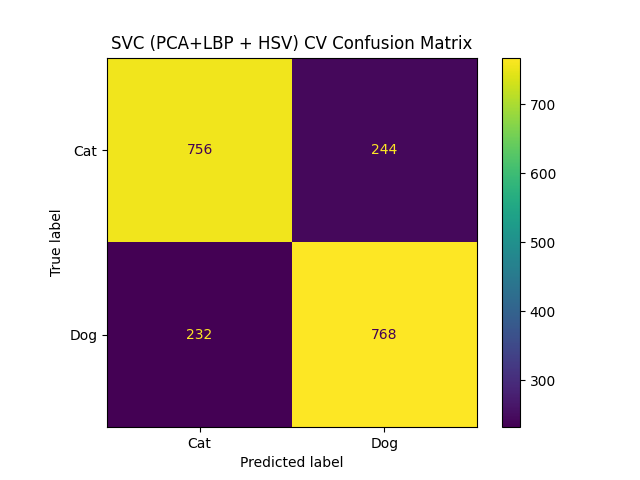
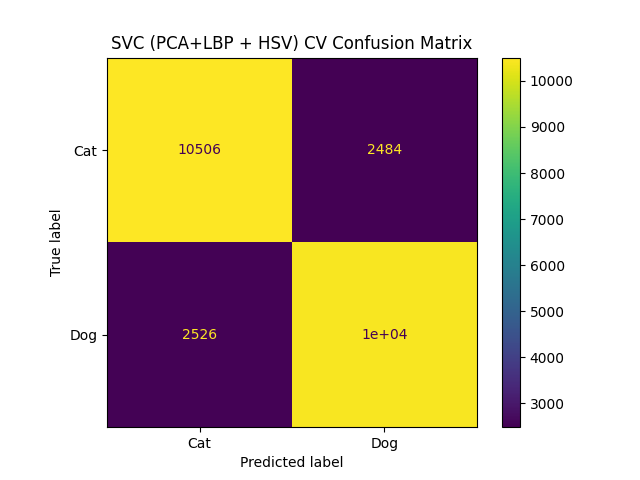
final results

diff --git a/DogVsCat.py b/DogVsCat.py
@@ -45,12 +45,13 @@ def load_images(cat_dir, dog_dir, image_size=(128,128)):
     cv2.destroyAllWindows()
     return np.array(images), np.array(imagesGray), np.array(labels)
 
-'''
+
 cat_dir = os.path.join("all_cats_merged")
 dog_dir = os.path.join("all_dogs_merged")
 '''
 cat_dir = os.path.join("CatImages", "cats")
 dog_dir = os.path.join("DogImages", "dogs")
+'''
 
 images, imagesGray, labels = load_images(cat_dir,dog_dir)
 print(f"Loaded {len(images)} images.")
@@ -176,12 +177,12 @@ for k in k_values:
     pipe_mix.set_params(model__n_neighbors=k)
     pipe_mix_pca.set_params(model__n_neighbors=k)
 
-    scores_h = cross_val_score(pipe_hog, hogfeatures, labels, cv=cv_strategy, scoring='accuracy')
-    scores_l = cross_val_score(pipe_lbp, lpb_features, labels, cv=cv_strategy, scoring='accuracy')
-    scores_hsv = cross_val_score(pipe_hsv, colorFeatures, labels, cv=cv_strategy, scoring='accuracy')
-    scores_ph = cross_val_score(pipe_pca_hog, hogfeatures, labels, cv=cv_strategy, scoring='accuracy')
-    scores_m = cross_val_score(pipe_mix, mergeFeatures, labels, cv=cv_strategy, scoring='accuracy')
-    scores_pm = cross_val_score(pipe_mix_pca, mergeFeatures, labels, cv=cv_strategy, scoring='accuracy')
+    scores_h = cross_val_score(pipe_hog, hogfeatures, labels, cv=cv_strategy, scoring='accuracy', n_jobs=-1)
+    scores_l = cross_val_score(pipe_lbp, lpb_features, labels, cv=cv_strategy, scoring='accuracy', n_jobs=-1)
+    scores_hsv = cross_val_score(pipe_hsv, colorFeatures, labels, cv=cv_strategy, scoring='accuracy', n_jobs=-1)
+    scores_ph = cross_val_score(pipe_pca_hog, hogfeatures, labels, cv=cv_strategy, scoring='accuracy', n_jobs=-1)
+    scores_m = cross_val_score(pipe_mix, mergeFeatures, labels, cv=cv_strategy, scoring='accuracy', n_jobs=-1)
+    scores_pm = cross_val_score(pipe_mix_pca, mergeFeatures, labels, cv=cv_strategy, scoring='accuracy', n_jobs=-1)
 
     knnAccuracyH[k] = scores_h.mean()
     knnAccuracyL[k] = scores_l.mean()
@@ -213,22 +214,69 @@ plt.grid(True)
 plt.savefig("results/KNN_Accuracy_vs_k.png")
 plt.close()
 
-
 print("Starting SVC cross-validation:")
 
 svc_model = SVC(kernel='rbf', C=2, gamma='scale', probability=True)
-pipe_mix_pca.set_params(model=svc_model)
-pipe_mix.set_params(model=svc_model)
 
-#print("running SVC on HOG + LBP + HSV features")
-#scores_svc_mix = cross_val_score(pipe_mix, mergeFeatures, labels, cv=cv_strategy, scoring='accuracy')
-#print(f"SVC HOG + LBP + HSV Accuracy: {scores_svc_mix.mean():.4f}")
+pipe_hog.set_params(model=svc_model)
+pipe_lbp.set_params(model=svc_model)
+pipe_hsv.set_params(model=svc_model)
+pipe_pca_hog.set_params(model=svc_model)
+pipe_mix.set_params(model=svc_model)
+pipe_mix_pca.set_params(model=svc_model)
+
+print("Running CV for all SVC pipelines (for box plot)...")
+scores_svc_hog = cross_val_score(pipe_hog, hogfeatures, labels, cv=cv_strategy, scoring='accuracy', n_jobs=-1)
+scores_svc_lbp = cross_val_score(pipe_lbp, lpb_features, labels, cv=cv_strategy, scoring='accuracy', n_jobs=-1)
+scores_svc_hsv = cross_val_score(pipe_hsv, colorFeatures, labels, cv=cv_strategy, scoring='accuracy', n_jobs=-1)
+scores_svc_pca_hog = cross_val_score(pipe_pca_hog, hogfeatures, labels, cv=cv_strategy, scoring='accuracy', n_jobs=-1)
+scores_svc_mix = cross_val_score(pipe_mix, mergeFeatures, labels, cv=cv_strategy, scoring='accuracy', n_jobs=-1)
+scores_svc_mix_pca = cross_val_score(pipe_mix_pca, mergeFeatures, labels, cv=cv_strategy, scoring='accuracy', n_jobs=-1)
+
+# Print the mean and standard deviation for comparison
+print(f"SVC HOG Accuracy: {scores_svc_hog.mean():.4f} +/- {scores_svc_hog.std():.4f}")
+print(f"SVC LBP Accuracy: {scores_svc_lbp.mean():.4f} +/- {scores_svc_lbp.std():.4f}")
+print(f"SVC HSV Accuracy: {scores_svc_hsv.mean():.4f} +/- {scores_svc_hsv.std():.4f}")
+print(f"SVC PCA HOG Accuracy: {scores_svc_pca_hog.mean():.4f} +/- {scores_svc_pca_hog.std():.4f}")
+print(f"SVC HOG + LBP + HSV Accuracy: {scores_svc_mix.mean():.4f} +/- {scores_svc_mix.std():.4f}")
+print(f"SVC PCA HOG + LBP + HSV Accuracy: {scores_svc_mix_pca.mean():.4f} +/- {scores_svc_mix_pca.std():.4f}")
+
+# --- NEW: Generate Box Plot ---
+print("Generating SVC comparison box plot...")
+data_to_plot = [
+    scores_svc_hog,
+    scores_svc_lbp,
+    scores_svc_hsv,
+    scores_svc_pca_hog,
+    scores_svc_mix,
+    scores_svc_mix_pca
+]
+labels_to_plot = [
+    'SVC HOG',
+    'SVC LBP',
+    'SVC HSV',
+    'SVC PCA HOG',
+    'SVC Mixed',
+    'SVC Mixed (PCA)'
+]
+
+plt.figure(figsize=(12, 8))
+plt.boxplot(data_to_plot, labels=labels_to_plot)
+plt.title('SVC Model Performance Comparison (5-Fold CV)')
+plt.ylabel('Accuracy')
+plt.xticks(rotation=30, ha='right') # Rotate labels to prevent overlap
+plt.grid(True, axis='y', linestyle='--', alpha=0.7)
+plt.tight_layout() # Adjust plot to fit labels
+plt.savefig("results/SVC_Model_Comparison_Boxplot.png")
+plt.close()
+
+
 
 print("running SVC on PCA HOG + LBP + HSV features")
-scores_svc_mix_pca = cross_val_score(pipe_mix_pca, mergeFeatures, labels, cv=cv_strategy, scoring='accuracy')
+scores_svc_mix_pca = cross_val_score(pipe_mix_pca, mergeFeatures, labels, cv=cv_strategy, scoring='accuracy', n_jobs=-1)
 print(f"SVC PCA HOG + LBP + HSV Accuracy: {scores_svc_mix_pca.mean():.4f}")
-y_pred_cv = cross_val_predict(pipe_mix_pca, mergeFeatures, labels, cv=cv_strategy)
-y_probs_cv = cross_val_predict(pipe_mix_pca, mergeFeatures, labels, cv=cv_strategy, method='predict_proba')
+y_pred_cv = cross_val_predict(pipe_mix_pca, mergeFeatures, labels, cv=cv_strategy, n_jobs=-1)
+y_probs_cv = cross_val_predict(pipe_mix_pca, mergeFeatures, labels, cv=cv_strategy, method='predict_proba', n_jobs=-1)
 # Get the probabilities for the "positive" class (Dog, label 1)
 y_probs_cv_dog = y_probs_cv[:, 1]
 
@@ -248,7 +296,7 @@ plt.savefig("results/SVC_PCA_LBP_HSV_Confusion_Matrix.png")
 plt.close()
 
 
-# 3. ROC Curve and AUC Score
+# ROC Curve and AUC Score
 print("Generating ROC Curve...")
 fpr, tpr, thresholds = roc_curve(labels, y_probs_cv_dog)
 auc_score = roc_auc_score(labels, y_probs_cv_dog)
